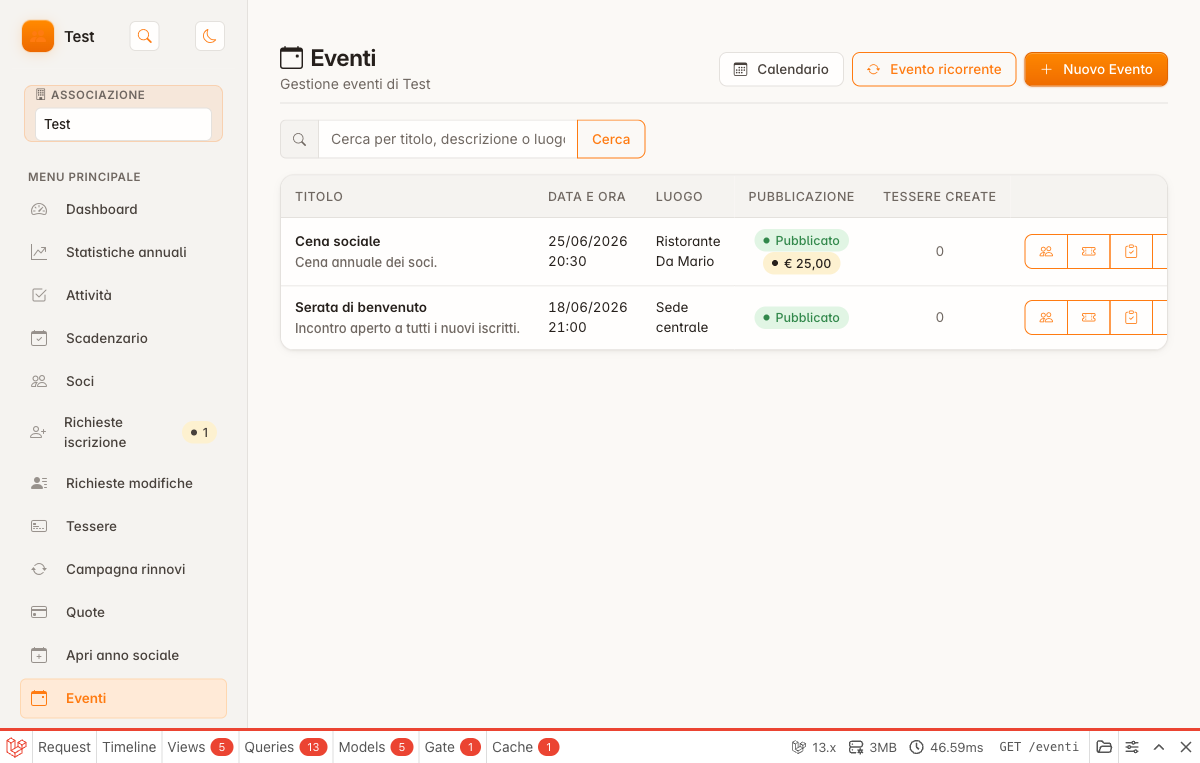
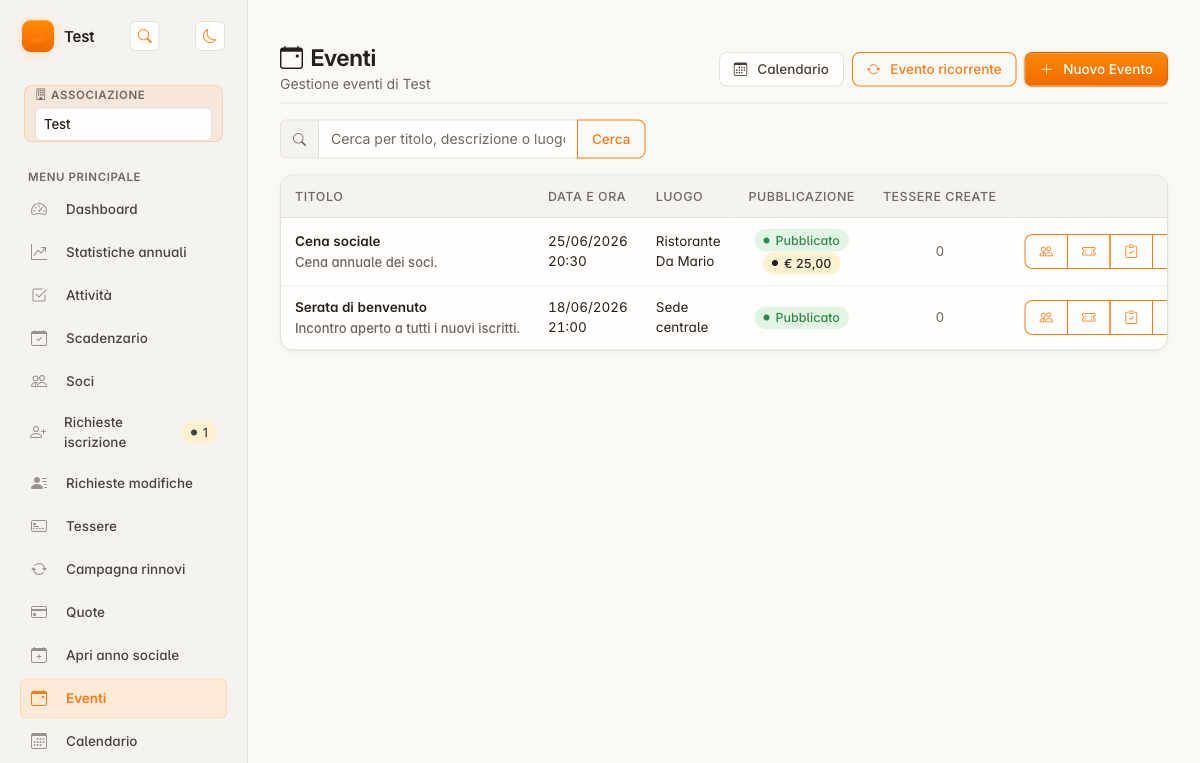
Rinomina progetto in Gestionale Associazioni e ricattura screenshot senza debugbar
Aggiorna nome repo (gestionale-associazioni), URL clone, repo default updater e screenshot README ripuliti dalla toolbar di debug.

Changed region(s): [[0.0, 0.9345, 1.0, 0.9948]]

diff --git a/config/update.php b/config/update.php
@@ -16,7 +16,7 @@ return [
 
     'github' => [
         'owner' => env('UPDATE_GITHUB_OWNER', 'fabiodalez-dev'),
-        'repo' => env('UPDATE_GITHUB_REPO', 'gestione-associazioni-laravel'),
+        'repo' => env('UPDATE_GITHUB_REPO', 'gestionale-associazioni'),
         // Token opzionale per alzare il rate limit GitHub (60 → 5000/h) e
         // accedere a repo privati. Mai committato: solo via env.
         'token' => env('UPDATE_GITHUB_TOKEN'),

diff --git a/README.md b/README.md
@@ -1,4 +1,4 @@
-# Gestione Associazioni
+# Gestionale Associazioni
 
 Piattaforma **SaaS multi-tenant** per la gestione completa della vita di un'associazione: soci e tesseramento, eventi con prenotazioni online, quote e pagamenti, registro ufficiale e governance, comunicazione, economia, volontari e organizzazione interna. Ogni associazione ha il proprio mini-sito pubblico brandizzato dove i cittadini si iscrivono e prenotano gli eventi.
 
@@ -132,8 +132,8 @@ Le 25 librerie principali: Fortify, Sanctum, Scout, spatie (permission, activity
 ### Installer web (consigliato)
 
 ```bash
-git clone https://github.com/fabiodalez-dev/gestione-associazioni-laravel.git
-cd gestione-associazioni-laravel
+git clone https://github.com/fabiodalez-dev/gestionale-associazioni.git
+cd gestionale-associazioni
 composer install --no-dev
 cp .env.example .env
 ```

diff --git a/docs/REPORT-FINALE.md b/docs/REPORT-FINALE.md
@@ -157,8 +157,8 @@ PHP 8.3+ (consigliato 8.4) con `pdo_mysql`, `mbstring`, `zip`, `gd`, `intl` · M
 ### Installazione
 
 ```bash
-git clone <repository> gestione-associazioni-laravel
-cd gestione-associazioni-laravel
+git clone <repository> gestionale-associazioni
+cd gestionale-associazioni
 
 composer install
 cp .env.example .env
